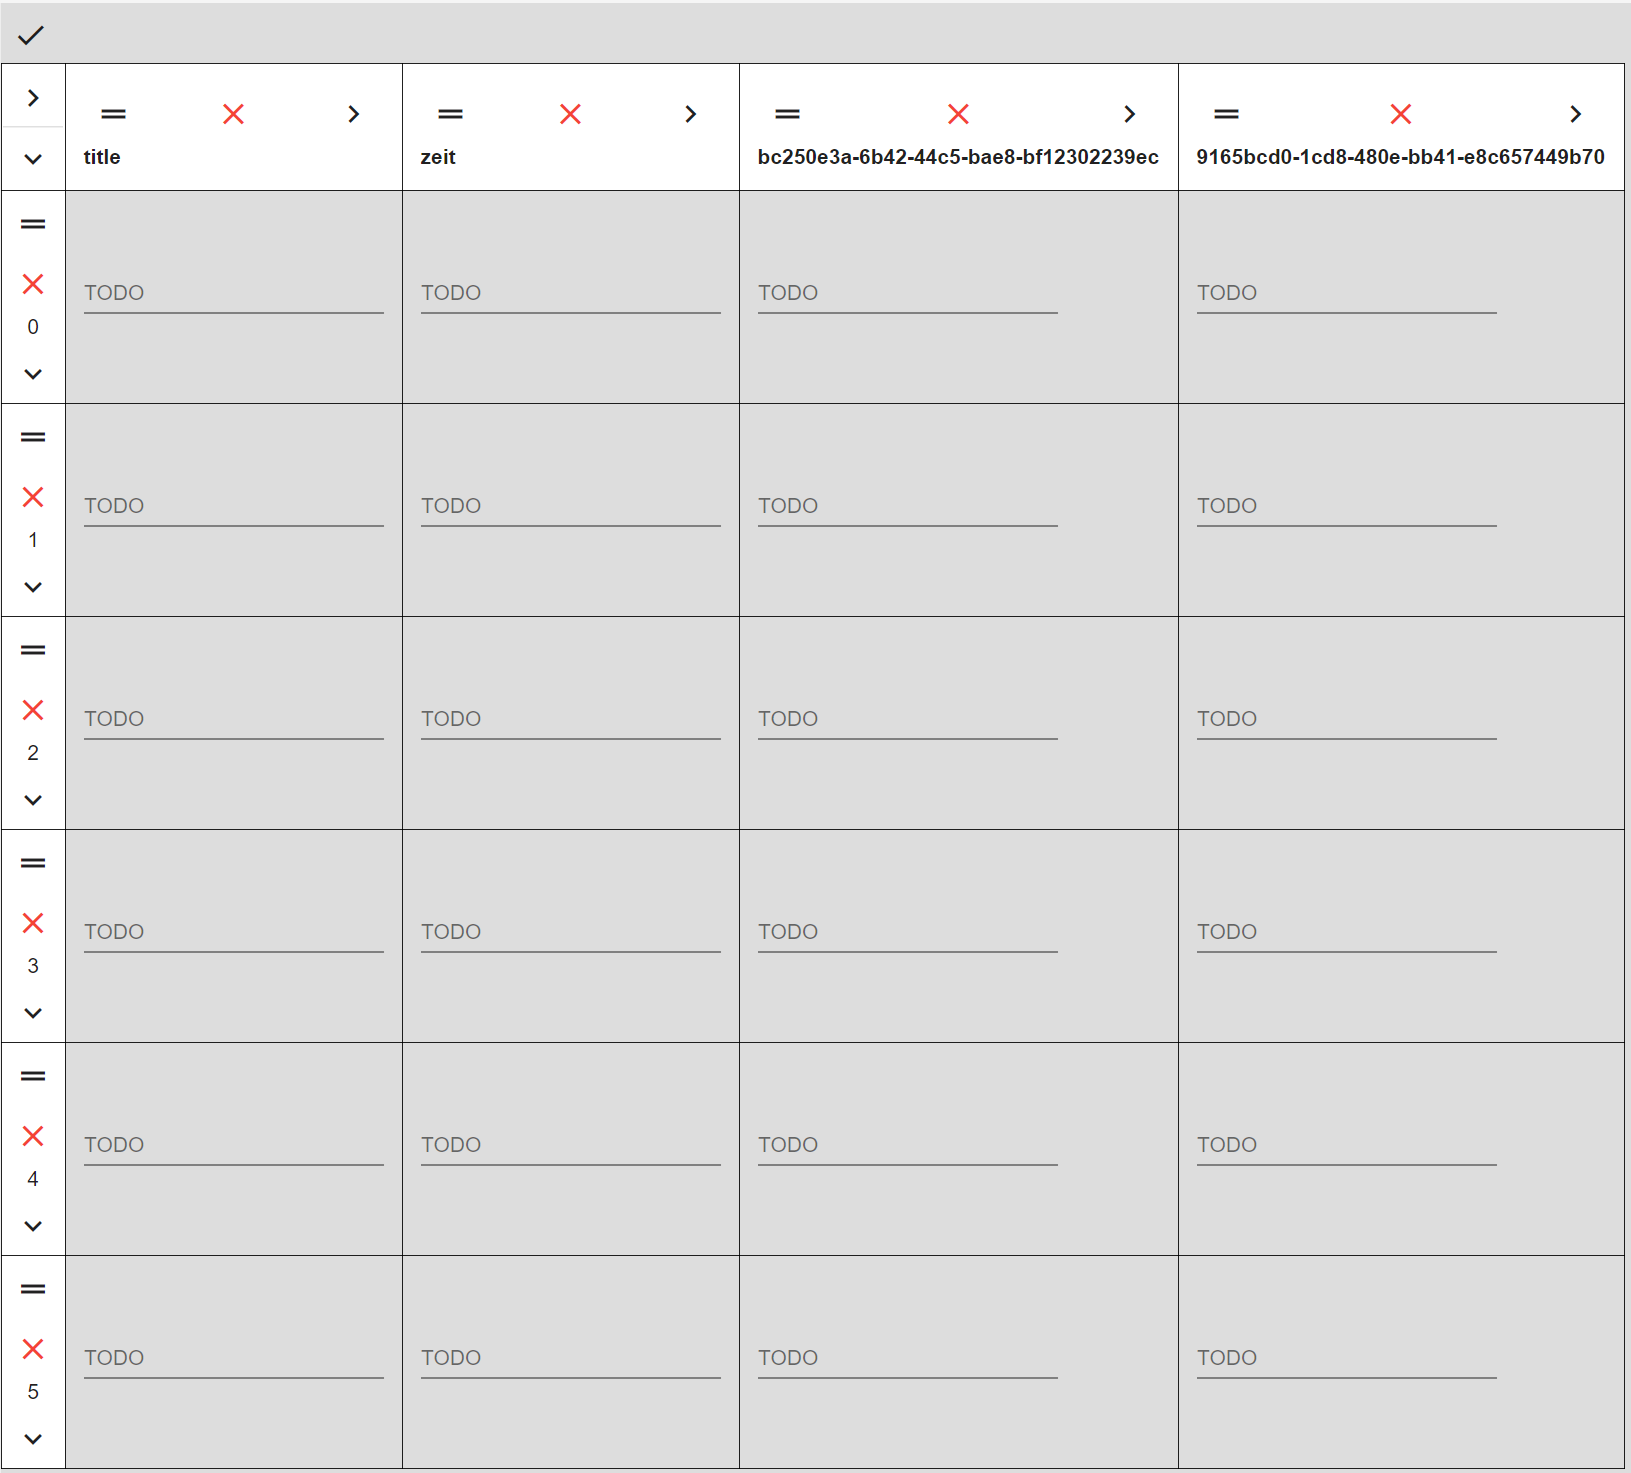
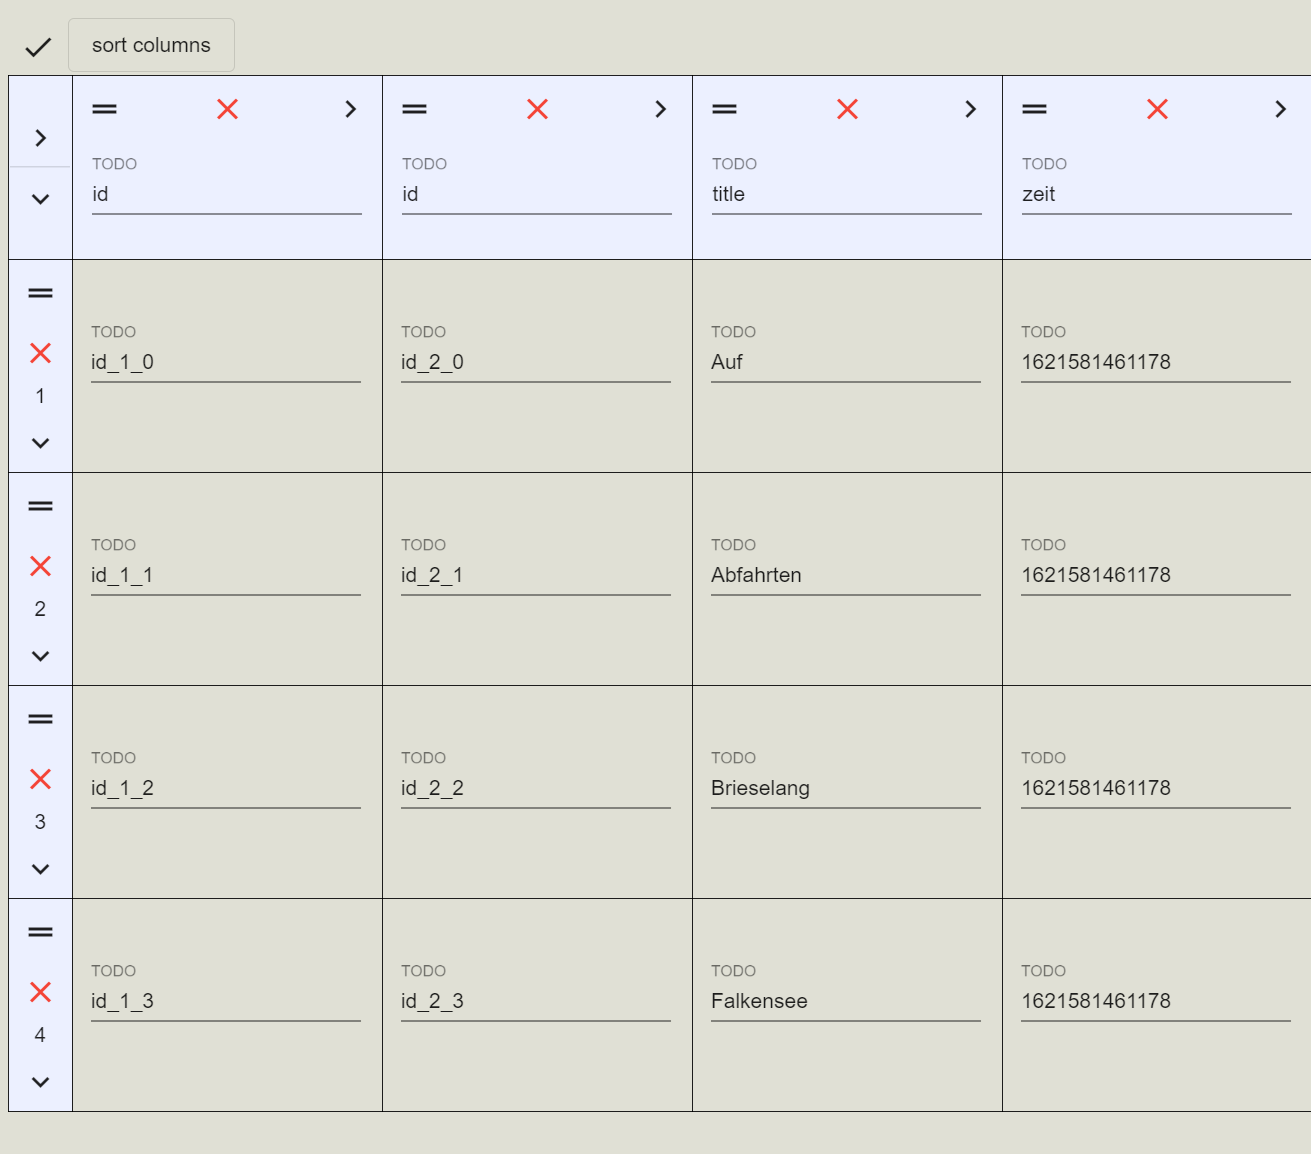
updated ui

diff --git a/projects/angular-components/src/app/app-routes.ts b/projects/angular-components/src/app/app-routes.ts
@@ -34,7 +34,7 @@ export const appRoutes: Routes = [
     component: ExtenableTextGridDemoComponent,
     data: {
       title: 'Material',
-      description: 'An extendable text grid',
+      description: 'An extendable text grid, dialog edit',
     },
   },
   {
@@ -42,7 +42,7 @@ export const appRoutes: Routes = [
     component: ExtenableFormGridDemoComponent,
     data: {
       title: 'Material',
-      description: 'An extendable form grid',
+      description: 'An extendable form grid, table edit',
     },
   },
   {

diff --git a/projects/matx/src/lib/components/extenable-form-grid/extenable-form-grid.component.html b/projects/matx/src/lib/components/extenable-form-grid/extenable-form-grid.component.html
@@ -2,7 +2,12 @@
   <button mat-icon-button (click)="submitAction()">
     <mat-icon>done</mat-icon>
   </button>
-  <button type="button" mat-stroked-button (click)="sidenav.toggle()">
+  <button
+    [disabled]="headerRow.length < 2"
+    type="button"
+    mat-stroked-button
+    (click)="sidenav.toggle()"
+  >
     sort columns
   </button>
 </div>
@@ -196,5 +201,6 @@
         </table>
       </ng-template>
     </form>
+    <div class="padding-footer"></div>
   </mat-sidenav-content>
 </mat-sidenav-container>

diff --git a/projects/angular-components/src/app/components/demo-menu/demo-menu.component.ts b/projects/angular-components/src/app/components/demo-menu/demo-menu.component.ts
@@ -17,11 +17,10 @@ export class DemoMenuComponent implements OnInit {
       .map((i) => {
         return {
           uri: i.path,
-          label: i.component.name,
+          label: i.component.name.replace('DemoComponent', ''),
           title: i.data ? i.data.title : '',
           description: i.data ? i.data.description : '',
         };
       });
   }
 }
-

diff --git a/projects/matx/src/lib/components/extenable-text-grid/extenable-text-grid.component.scss b/projects/matx/src/lib/components/extenable-text-grid/extenable-text-grid.component.scss
@@ -15,12 +15,12 @@
   }
   td:first-child,
   th {
-    background-color: #ecf0ff;
+    background-color: #fff;
     border-bottom: 1px solid #444;
   }
   .sticky {
     position: sticky;
-    background-color: #ecf0ff;
+    background-color: #fff;
     // top: var(--sp-offset);
     top: 0;
     z-index: 100;

diff --git a/projects/angular-components/src/styles.scss b/projects/angular-components/src/styles.scss
@@ -55,6 +55,10 @@ li {
   padding: 12px;
 }
 
+.padding-footer {
+  padding-bottom: 64px;
+}
+
 .flex-row-bordered {
   display: flex;
   > div:not(:last-child) {
@@ -75,3 +79,4 @@ li {
   display: flex;
   padding: 12px;
 }
+

diff --git a/projects/matx/src/lib/components/extenable-form-grid/extenable-form-grid.component.scss b/projects/matx/src/lib/components/extenable-form-grid/extenable-form-grid.component.scss
@@ -11,7 +11,7 @@
   }
   td:first-child,
   th {
-    background-color: #fff;
+    background-color: #ecf0ff;
   }
 }
 
